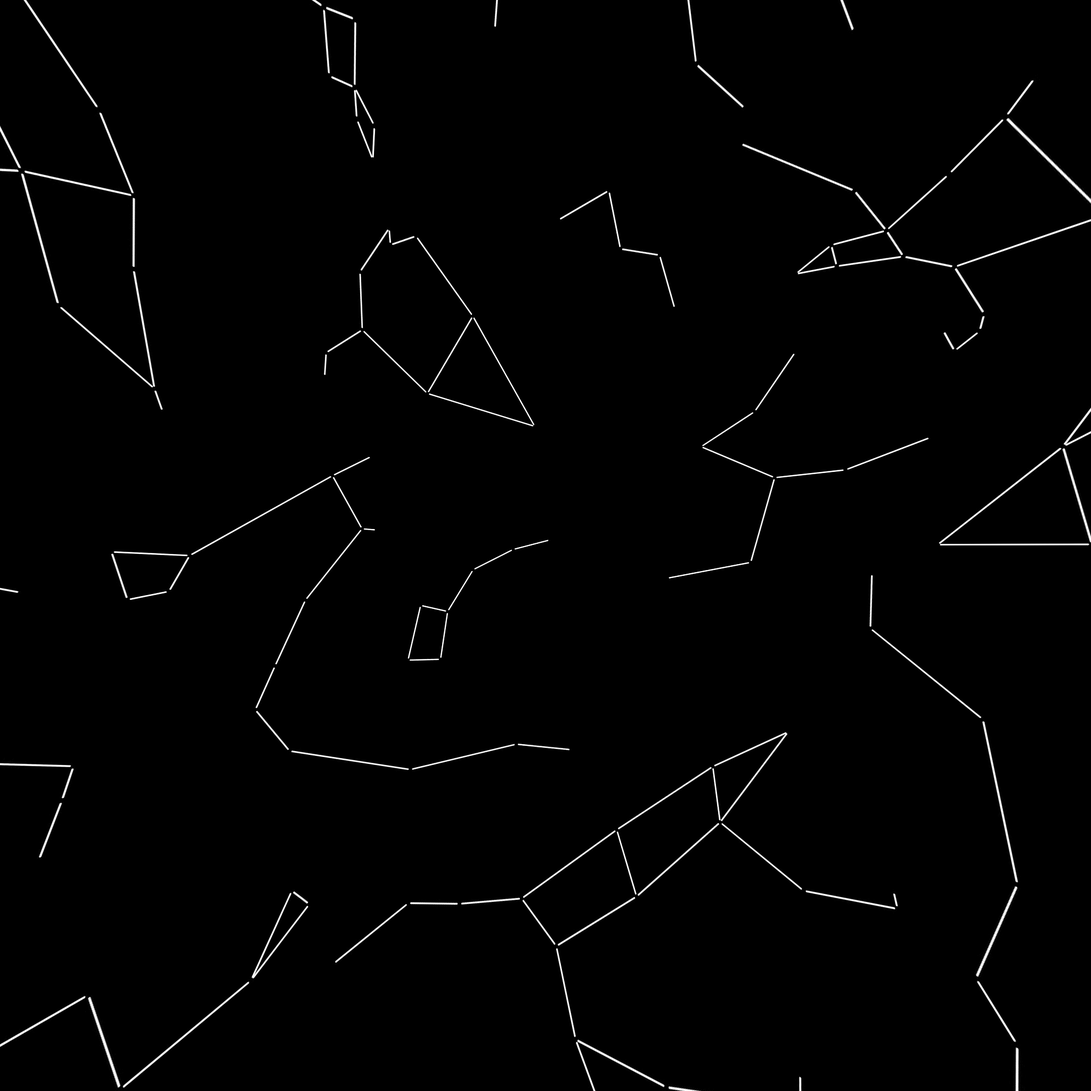
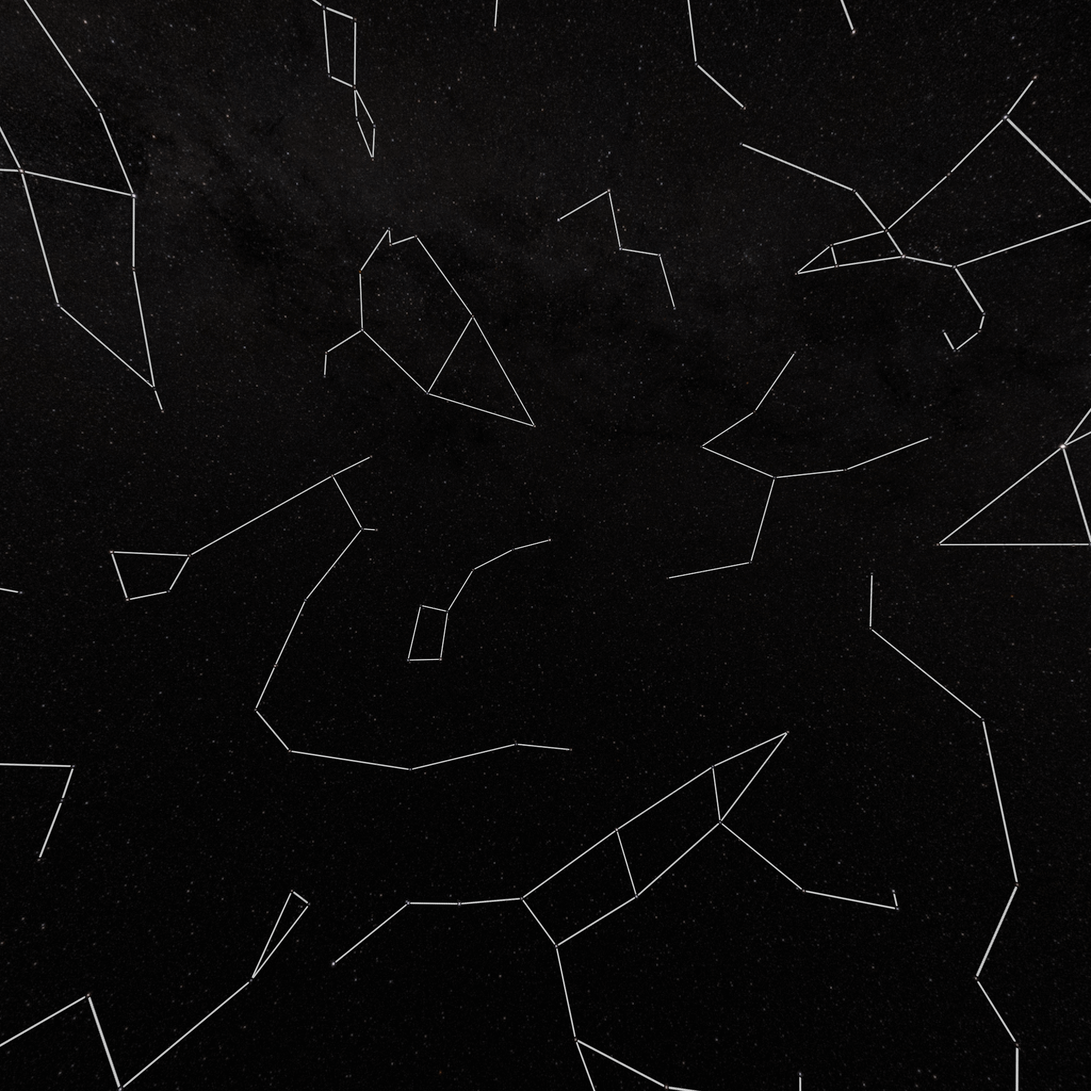
fixed constellation warpping

diff --git a/src/components/canvas/SharedCanvas.jsx b/src/components/canvas/SharedCanvas.jsx
@@ -1,13 +1,14 @@
 "use client";
 
-import { Suspense, useEffect } from "react";
+import { Suspense, useEffect, useState } from "react";
 import { Canvas } from "@react-three/fiber";
 import Stars from "../Stars";
-import { Html, Preload, Stats, useProgress } from "@react-three/drei";
+import { Environment, Html, Preload, Stats, useProgress } from "@react-three/drei";
 import useStore from "../../store/store";
 import Menu from "../Menu";
 import { Bloom, EffectComposer } from "@react-three/postprocessing";
 import "../../styles.css";
+import { RGBADepthPacking } from "three";
 
 const SharedCanvas = ({ children }) => {
   const { fullscreen } = useStore();
@@ -33,15 +34,39 @@ const SharedCanvas = ({ children }) => {
       </Html>
     );
   };
-
+  const [constellations, setConstellations] = useState(false)
+  const toggleStars = () => {
+    console.log('toggled stars', !constellations)
+    setConstellations(!constellations)
+  }
   return (
     <div className={`Main ${fullscreen ? "fullscreen" : "minimized"}`}>
-      <Canvas id='Canvas' dpr={[1, 2]} camera={{ fov: 50, position: [5000, 5000, 5000], near: 0.01, far: 200000 }}>
+      <Canvas id='Canvas' dpr={[1, 2]} camera={{ fov: 50, position: [5000, 5000, 5000], near: 0.1, far: 200000 }} onAuxClick={toggleStars}>
         <Suspense fallback={<Loader />}>
           <Stats />
-          <Stars />
+          {/* <Stars /> */}
 
-          <ambientLight intensity={0.1} />
+          {/* <Environment
+            background="only"
+            blur={0}
+            files={['px.png', 'nx.png', 'py.png', 'ny.png', 'pz.png', 'nz.png']}
+            path={`../assets/stars/stars-cube-map/`}
+            preset={null}
+            scene={undefined}
+          /> */}
+
+          {/* <Environment
+            background="only"
+            blur={0}
+            files={['px.png', 'nx.png', 'py.png', 'ny.png', 'pz.png', 'nz.png']}
+            path="../assets/stars/constellations-cube-map/"
+            preset={null}
+            scene={undefined}
+            encoding={undefined}
+          // ground={{ radius: 50000, scale: 1000 }}
+          /> */}
+
+          <ambientLight intensity={0.04} />
           <pointLight color='#f6f3ea' intensity={1} position={[0, 0, 0]} />
           <EffectComposer>
             <Bloom mipmapBlur intensity={0.3} luminanceThreshold={1} luminanceSmoothing={1.2} radius={0.6} />

diff --git a/src/components/Stars.jsx b/src/components/Stars.jsx
@@ -1,26 +1,46 @@
-import { useLoader } from "@react-three/fiber";
-import { TextureLoader } from "three";
-import { BackSide } from "three";
-import useStore from "../store/store";
+import { useEffect } from 'react';
+import { useLoader, useThree } from '@react-three/fiber';
+import { CubeTextureLoader } from 'three';
+import { BackSide } from 'three';
+import useStore from '../store/store';
+
+
+
+function SkyBox({ texture, showConstellations }) {
+  const { scene } = useThree();
+
+  useEffect(() => {
+    scene.background = texture;
+  }, [showConstellations]);
+  return null;
+}
 
 const Stars = () => {
-  const starsTexture = useLoader(TextureLoader, "../assets/stars/starmap_8k.png");
-  const constellationTexture = useLoader(TextureLoader, "../assets/stars/constellations.png");
   const { showConstellations } = useStore();
-  const size = 100000;
+  const loader = new CubeTextureLoader();
+
+  const starsTexture = loader.load([
+    '../assets/stars/stars-cube-map/px.png',
+    '../assets/stars/stars-cube-map/nx.png',
+    '../assets/stars/stars-cube-map/py.png',
+    '../assets/stars/stars-cube-map/ny.png',
+    '../assets/stars/stars-cube-map/pz.png',
+    '../assets/stars/stars-cube-map/nz.png',
+  ]);
+  const constellationsTexture = loader.load([
+    '../assets/stars/constellations-cube-map/px.png',
+    '../assets/stars/constellations-cube-map/nx.png',
+    '../assets/stars/constellations-cube-map/py.png',
+    '../assets/stars/constellations-cube-map/ny.png',
+    '../assets/stars/constellations-cube-map/pz.png',
+    '../assets/stars/constellations-cube-map/nz.png',
+  ]);
+
   return (
     <>
-      <mesh>
-        <sphereGeometry args={[size + 1, 128]} />
-        <meshBasicMaterial map={starsTexture} side={BackSide} />
-      </mesh>
-
-      {showConstellations && (
-        <mesh>
-          <sphereGeometry args={[size, 128]} />
-          <meshBasicMaterial map={constellationTexture} transparent={true} opacity={0.2} side={BackSide} />
-        </mesh>
-      )}
+      <SkyBox
+        showConstellations={showConstellations}
+        texture={showConstellations ? constellationsTexture : starsTexture} />
     </>
   );
 };
